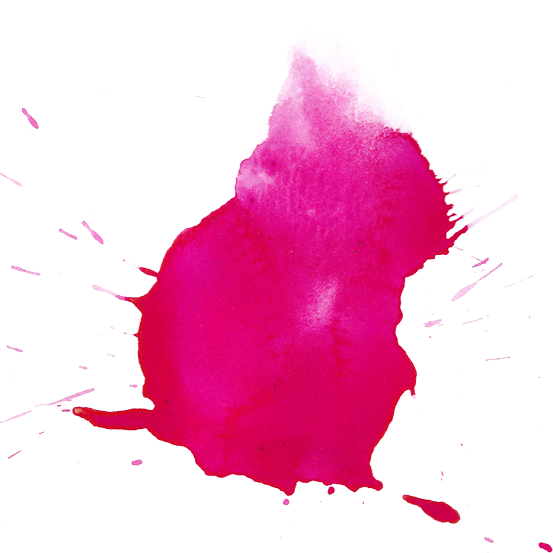
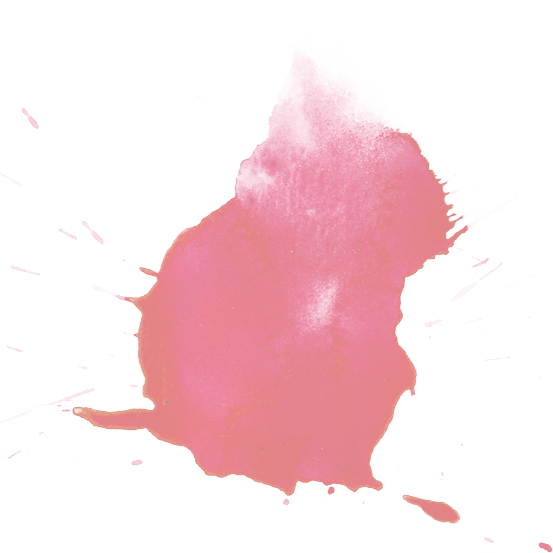
Less opaque blood, added updated css for mosquito game

diff --git a/jusqua-la-derniere-goutte.css b/jusqua-la-derniere-goutte.css
@@ -3,7 +3,7 @@
 }
 
 [alt="SPLAT"]:hover {
-    background: url(https://www.freeiconspng.com/uploads/blood-png-transparent-image-18.png);
+    background: url(https://raw.githubusercontent.com/charles-masse/itch.io_css/main/assets/splat.png);
     background-position: center;
     background-size: contain;
 }
@@ -22,5 +22,5 @@
     height:0;
     overflow:hidden;
     z-index:-1;
-    content: url(https://www.freeiconspng.com/uploads/blood-png-transparent-image-18.png);
+    content: url(https://raw.githubusercontent.com/charles-masse/itch.io_css/main/assets/splat.png);
 }
